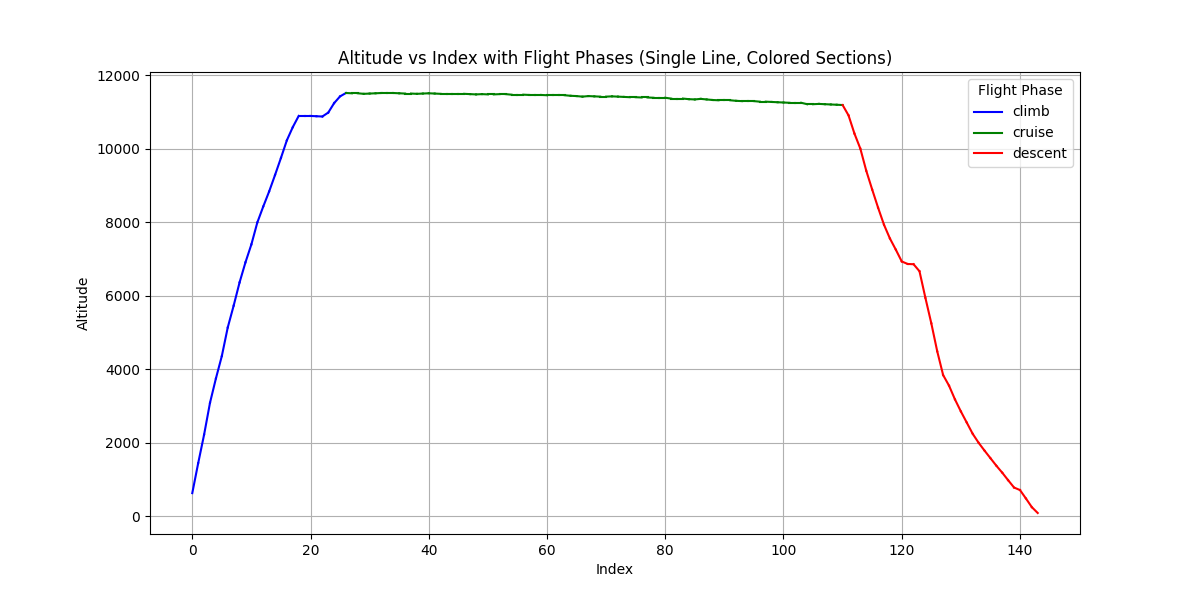
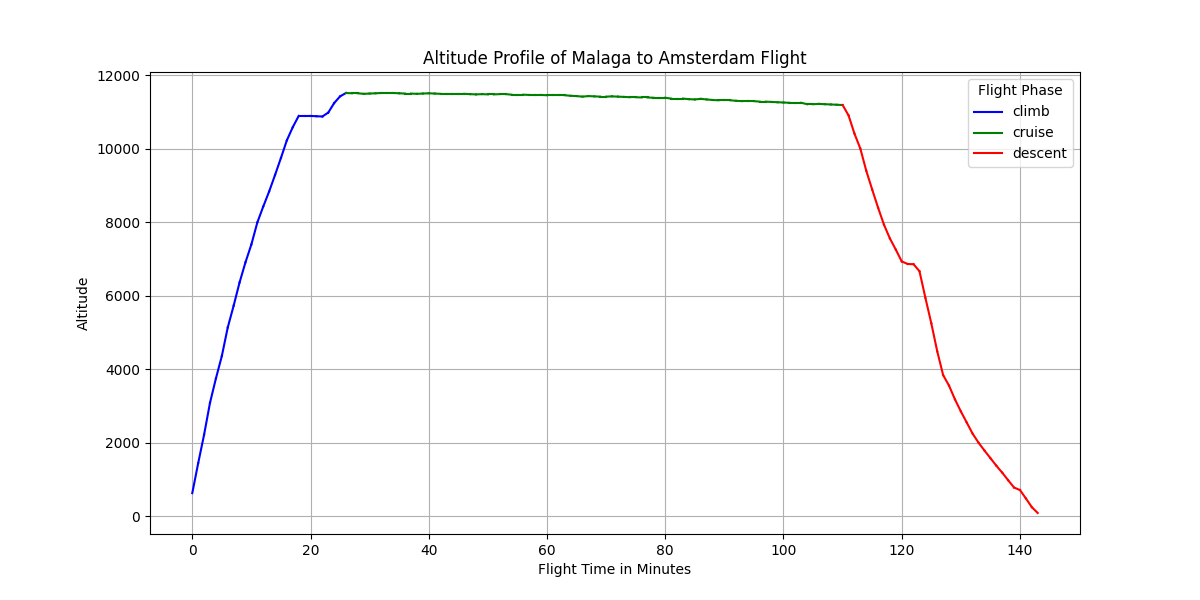
results midterm overleaf

Changed region(s): [[0.2775, 0.09, 0.74, 0.12], [0.4317, 0.93, 0.5858, 0.96]]

diff --git a/verification_emissions.py b/verification_emissions.py
@@ -228,9 +228,9 @@ for i in range(len(df) - 1):
     plt.plot(x_values, y_values, color=color)
 
 # Add labels, title, and grid
-plt.xlabel('Index')
+plt.xlabel('Flight Time in Minutes')
 plt.ylabel('Altitude')
-plt.title('Altitude vs Index with Flight Phases (Single Line, Colored Sections)')
+plt.title('Altitude Profile of Malaga to Amsterdam Flight')
 plt.grid(True)
 
 # Create a legend for the phases
